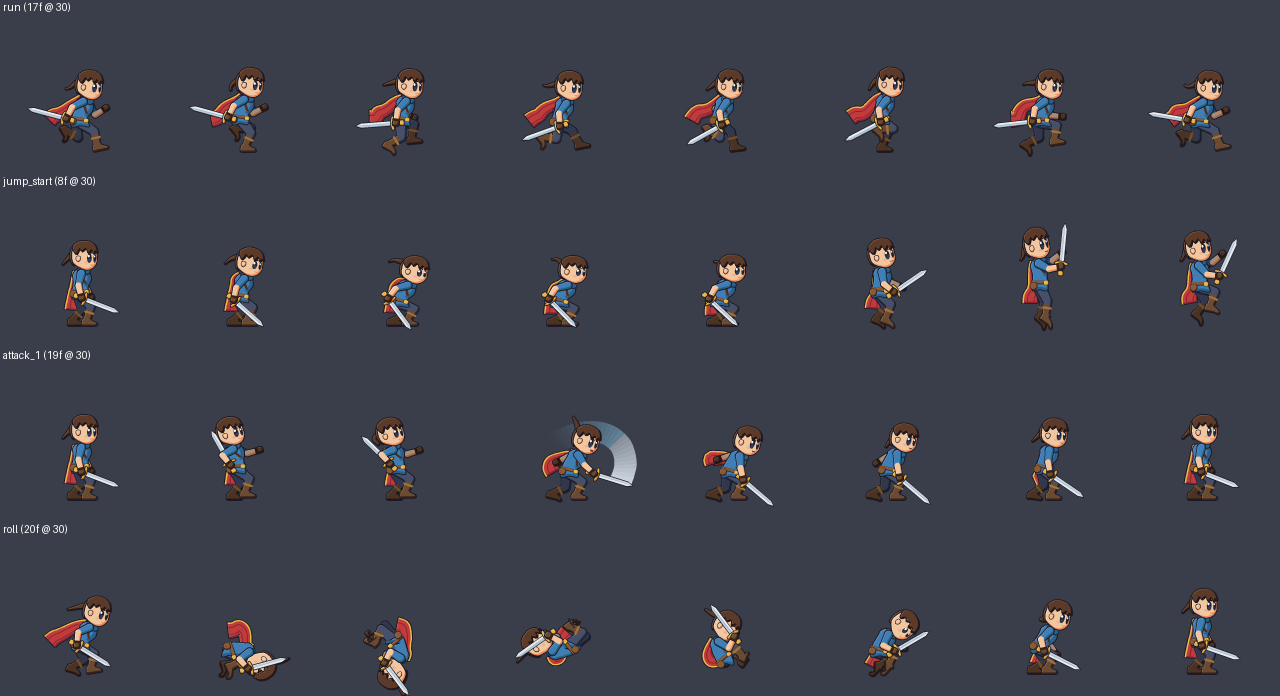
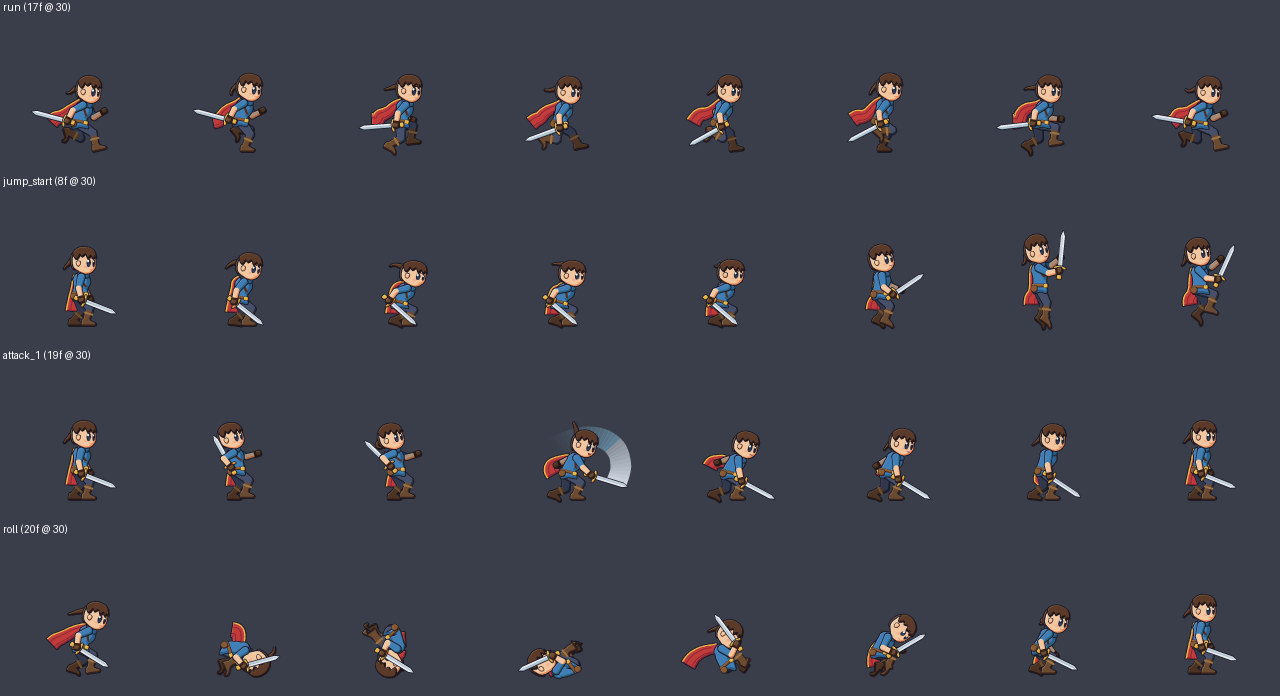
README: add the shooter skill, constraints and visual QA; new previews
The README described only the first release. It now covers
game-shooter-animator (layers, weapons, aiming, combos, demo, install),
the skeleton constraints, clipping checks, AI visual review and auto-fit
added on this branch, shooter integration notes, and the new limits.
docs/preview.png is re-rendered from current code; docs/preview-shooter.png
shows commando run-and-gun, jump fire, roll and blast death.

Claude-Session: https://claude.ai/code/session_015tYkNWduZF95Bypag8aQhi

diff --git a/README.md b/README.md
@@ -2,9 +2,14 @@
 
 用 Claude 生成 2D 游戏角色动画的 skill：一句话描述角色，得到完整、流畅、可直接导入引擎的动作素材。
 
-![示例角色的跑步、起跳、攻击、翻滚动作](docs/preview.png)
+| Skill | 适合 |
+|---|---|
+| [game-sprite-animator](#game-sprite-animator) | 横版 RPG、动作游戏：刀剑、法术、跳跃、翻滚 |
+| [game-shooter-animator](#game-shooter-animator) | 横版射击游戏：持枪士兵、多方向瞄准、开火、换弹 |
 
 ## game-sprite-animator
+
+![示例角色的跑步、起跳、攻击、翻滚动作](docs/preview.png)
 
 每一帧都由骨骼和连续曲线计算生成，因此帧率可以随意设定，循环首尾闭合，走路时脚不打滑。
 
@@ -13,16 +18,39 @@
 - **5 个角色模板：** 英雄、骑士、法师、忍者、哥布林，可自定义外形、配色、武器和动作手感
 - **细节：** 披风、头发、围巾由物理模拟带动，有脚步滚动、挤压拉伸、表情和刀光，并附带尘土、火花等特效素材
 - **自己的美术：** 把分层 PNG 绑到骨骼上，复用同一套动作
-- **质检工具：** 检测重复帧、循环接缝、跳帧、滑步和动作衔接，也能检查已有的序列帧
+- **骨骼约束：** 头、脊柱、肘关节有软限位，翻滚和倒地时身体贴地，武器、脚和披风不穿地
+- **质检工具：** 检测重复帧、循环接缝、跳帧、滑步和动作衔接，以及武器挡脸、武器或身体穿地、画面被帧边缘裁切；也能检查已有的序列帧
+- **AI 视觉质检：** 生成审查图，由 Claude 逐张看图，找出数值查不到的问题，比如身体悬空、关节反折、剪影看不出动作，并记录结论
+- **自动适配大小：** 按最大的动作缩放角色，保证任何一帧都不出画
 - **导出：** 序列帧、精灵图、图集、`animations.json`，以及 Unity、Godot、Cocos、Phaser、PixiJS、H5 CSS 和 Canvas 播放器所需的文件
 
 每次生成都会附带 `preview.html`，可以逐个查看动作，也可以用键盘试玩。
 
+## game-shooter-animator
+
+![持枪士兵的跑动射击、跳跃射击、翻滚、炸飞动作](docs/preview-shooter.png)
+
+参考合金弹头的做法，把上半身和下半身分开：任意移动可以配任意瞄准角度和武器，帧数不会爆炸。
+
+- **6 种枪：** 手枪、冲锋枪、步枪、霰弹枪、狙击枪、火箭筒，每种有自己的射速、后坐力、换弹动作和枪口位置
+- **9 个瞄准方向：** 每 22.5° 一档，从正上方到正下方，扶枪的手始终握在枪上
+- **分层动作：** 下半身有待机、走、跑、后退、蹲、跳跃；上半身每种武器都有瞄准、开火、换弹、投弹、枪托攻击、切枪
+- **整身动作：** 冲刺、翻滚、滑铲、受击、死亡、炸飞、胜利
+- **烘焙组合：** 比如跑动射击、待机瞄准，给只想每个状态一张精灵图的引擎或 H5 用
+- **4 个角色模板：** 突击兵、特警、狙击手、雇佣兵
+- **射击手感：** 射速对齐整帧，每发都有枪口火光；每帧都标了枪口位置，子弹从枪口射出；换弹、投弹、开枪都有事件帧
+- **质检：** 与 game-sprite-animator 相同的骨骼约束、数值检测和 AI 视觉质检，另外检测握枪间隙和射击节奏
+- **导出：** 与 game-sprite-animator 相同（H5 CSS 只包含整身动作），另有每帧的上半身挂点 `anchor` 和枪口 `muzzle`
+
+`preview.html` 里有可试玩的靶场：鼠标瞄准、开火、换弹、投弹、切枪，同时也是游戏里接入分层动作的参考实现。
+
 ## 安装
 
-**Claude 桌面版：** 下载 [`game-sprite-animator.skill`](game-sprite-animator.skill)，在 Claude 中打开文件并保存为 skill。
+两个 skill 互相独立，按需安装一个或两个。
 
-**Claude Code：** 把 [`game-sprite-animator/`](game-sprite-animator) 文件夹复制到 `~/.claude/skills/`。
+**Claude 桌面版：** 下载 [`game-sprite-animator.skill`](game-sprite-animator.skill) 或 [`game-shooter-animator.skill`](game-shooter-animator.skill)，在 Claude 中打开文件并保存为 skill。
+
+**Claude Code：** 把 [`game-sprite-animator/`](game-sprite-animator) 或 [`game-shooter-animator/`](game-shooter-animator) 文件夹复制到 `~/.claude/skills/`。
 
 需要 Python 3，以及 `pillow` 和 `numpy`：
 
@@ -38,11 +66,17 @@ pip install pillow numpy
 做一个像素风的绿皮哥布林，拿长矛，要待机、走路、跑步、跳跃和攻击，用在 Phaser 里
 ```
 
+```text
+做一个合金弹头风格的像素士兵，拿冲锋枪和手枪，要跑动射击、跳跃、换弹和死亡，做 H5 小游戏
+```
+
 如果没有自动触发，可以点名：
 
 ```text
 用 game-sprite-animator 做一个穿黑色斗篷的刺客
 ```
+
+Claude 生成后会先跑数值检测，再逐张看审查图，有 bug 级问题会先修好再交付。
 
 也可以不通过 Claude，直接运行脚本：
 
@@ -50,7 +84,10 @@ pip install pillow numpy
 cd game-sprite-animator
 python scripts/generate.py --character assets/characters/hero.json --preset hd --out out/hero
 python scripts/qa_motion.py out/hero
+python scripts/visual_review.py out/hero
 ```
+
+射击 skill 用法相同，在 `game-shooter-animator` 目录下运行，角色模板换成 `assets/characters/commando.json` 等。
 
 预设有 `hd`、`hd60`、`hd512`、`pixel48`、`pixel`、`pixel96`。
 
@@ -60,10 +97,18 @@ python scripts/qa_motion.py out/hero
 2. 锚点使用文件里的脚底 `pivot`，不要用每帧图片自己的边界，否则角色会抖动。
 3. 起跳、出伤害、脚步声用 `events` 标注的帧来触发。
 
-各引擎的接入方法见 [engine-integration.md](game-sprite-animator/references/engine-integration.md)。
+射击 skill 还要注意：
+
+4. 分层动作要把上半身画在下半身当前帧的 `anchor` 上。
+5. 子弹从 `muzzle[frame]` 加 `anchor` 的位置射出，不要用固定偏移。
+6. 瞄准角度变化时保留开火动作的当前帧，否则射速会变慢。
+
+各引擎的接入方法见 [engine-integration.md](game-sprite-animator/references/engine-integration.md) 和 [integration.md](game-shooter-animator/references/integration.md)。
 
 ## 当前限制
 
-- 只支持横版人形角色，没有四足、飞行或史莱姆类骨骼，也没有俯视角和正面视角。
+- 只支持横版人形角色，没有四足、飞行或史莱姆类骨骼，也没有俯视角和正面视角。射击 skill 也不支持载具、炮台和第一人称枪械。
 - 角色只有一个朝向，向左时用引擎的水平翻转。
-- 引擎导出文件都没有在对应引擎里实测过：Unity 导入脚本未编译，Godot 和 Cocos 文件做过结构校验，`sprites.css` 和 `atlas.json` 也只查过结构。具体情况见 [engine-integration.md](game-sprite-animator/references/engine-integration.md) 中的验证表。
+- 射击 skill 没有分层美术模式，不能绑定自己的 PNG；分层动作里，头上的布条（如头带）在跑动时不会随风飘，烘焙组合和整身动作里会。
+- AI 视觉质检是 Claude 看静态帧的判断，看不出动作在播放时的手感，最终效果请在 `preview.html` 里播放确认。
+- 引擎导出文件都没有在对应引擎里实测过：Unity 导入脚本未编译，Godot 和 Cocos 文件做过结构校验，`sprites.css` 和 `atlas.json` 也只查过结构。具体情况见 [engine-integration.md](game-sprite-animator/references/engine-integration.md) 和 [integration.md](game-shooter-animator/references/integration.md) 中的验证表。

diff --git a/HANDOVER.md b/HANDOVER.md
@@ -6,7 +6,7 @@
 
 把下面这段发给 Claude 就能继续：
 
-> 克隆 https://github.com/ww1995012019/2dgameskills 的 `claude/elegant-brown-0q6iwm` 分支，读根目录的 HANDOVER.md，从「接下来要做的事」第 6 步继续。
+> 克隆 https://github.com/ww1995012019/2dgameskills 的 `claude/elegant-brown-0q6iwm` 分支，读根目录的 HANDOVER.md，从「接下来要做的事」第 8 步继续。
 
 ## 这两个 skill 是什么
 
@@ -61,14 +61,14 @@
 
 ## 接下来要做的事
 
-1～6 已完成（修 `attack_3`、全量回归、hero 和 commando 的视觉质检、试玩页测试、导出校验、打包）。
+1～7 已完成（修 `attack_3`、全量回归、hero 和 commando 的视觉质检、试玩页测试、导出校验、打包、README）。
 
 第 6 步打包：根目录的 `game-sprite-animator.skill` 和 `game-shooter-animator.skill` 都是本分支的最新代码，包内文件和 git 跟踪的文件一一对应。解压到全新目录后，按 SKILL.md 的流程跑通了预览图、生成（像素）、数值检测（0 FAIL）、审查图，射击的试玩页测试也通过了。试运行时发现 `contact_sheet.py` 遇到角色没有的动作名会直接抛 `KeyError`（SKILL.md 示例里的 `rifle_reload`，swat 拿的是冲锋枪），已改成和 `generate.py` 一样列出可用动作名，SKILL.md 也补了说明。改了 skill 里的文件之后要重新打包：
 
 ```bash
 cd <skill-creator 目录> && PYTHONUTF8=1 python -m scripts.package_skill <仓库>/game-sprite-animator <仓库>
 ```
-7. **更新 README**：加入射击 skill、约束和视觉质检，换预览图。
+7. ~~更新 README~~ 已完成：加入射击 skill、约束、穿模检测和视觉质检；`docs/preview.png` 用最新代码重新生成，新增 `docs/preview-shooter.png`（commando 的跑动射击、跳跃射击、翻滚、炸飞）。
 8. **检查自动适配的缩放比例。** goblin 0.787 最小，比 hero 小约 15%；mage 0.849 和 ghost 0.848 次之。goblin 和 mage 最宽的动作是 `attack_3`，长兵器（长枪、法杖）加上下劈。可以考虑按武器长度调整挥舞幅度。ghost 是狙击枪太长。
 9. **询问用户后再合并到 `main`。** 这是公开仓库，合并和发布要用户确认。
 
